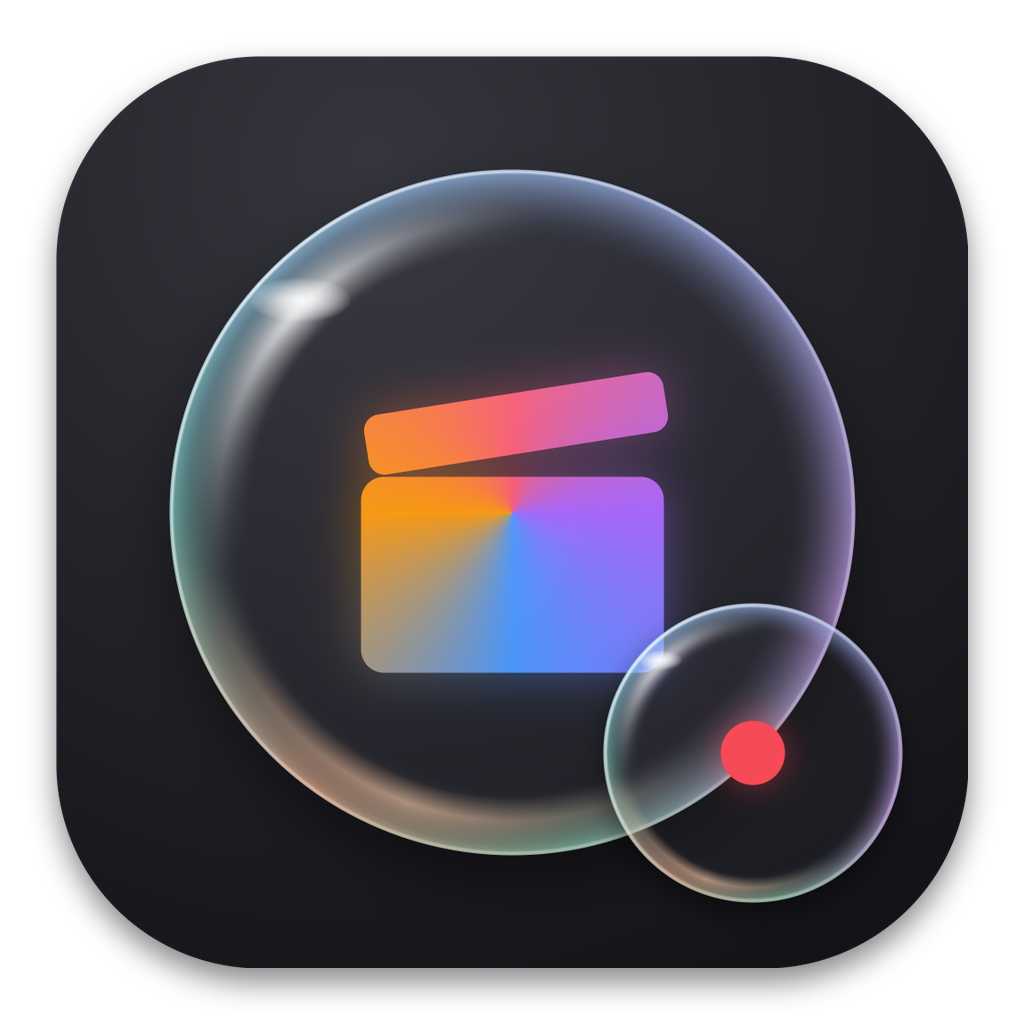
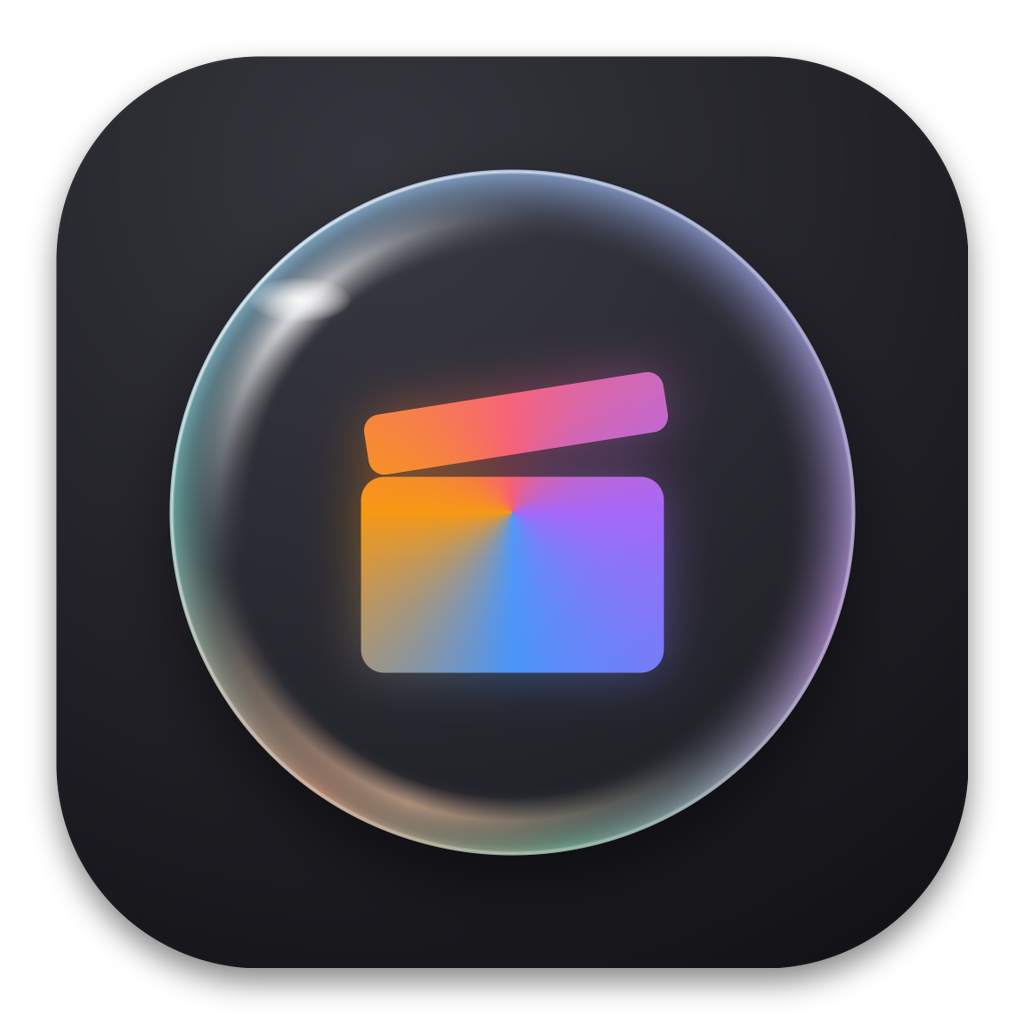
Кнопка «Обновить» список камер и микрофонов; иконка без маленького пузыря

Changed region(s): [[0.5625, 0.5625, 0.9062, 0.9062], [0.6875, 0.6875, 0.7812, 0.7812]]

diff --git a/Sources/main.swift b/Sources/main.swift
@@ -203,6 +203,7 @@ final class AppController: NSObject, NSApplicationDelegate,
     private var recordButton: RecordButton!
     private var timerLabel: NSTextField!
     private var folderButton: NSButton!
+    private var refreshButton: NSButton!
     private var audioCheckbox: NSButton!
     private var statusLabel: NSTextField!
     private var barView: NSView!
@@ -575,6 +576,31 @@ final class AppController: NSObject, NSApplicationDelegate,
         }
     }
 
+    /// Перечитывает список камер и микрофонов (подключил камеру после запуска — нажал «Обновить»).
+    @objc private func refreshDevices() {
+        guard !isRecording else { return }
+        let prevVideo = selectedVideoDevice()?.uniqueID
+        let prevAudio = selectedAudioDevice()?.uniqueID
+        let hadVideo = videoInput != nil
+
+        reloadDevices()
+
+        if let id = prevVideo, let i = videoDevices.firstIndex(where: { $0.uniqueID == id }) { devicePopup.selectItem(at: i) }
+        if let id = prevAudio, let i = audioDevices.firstIndex(where: { $0.uniqueID == id }) { audioPopup.selectItem(at: i) }
+
+        let sameVideo = selectedVideoDevice()?.uniqueID == prevVideo && hadVideo
+        if !sameVideo, !videoDevices.isEmpty,
+           AVCaptureDevice.authorizationStatus(for: .video) == .authorized {
+            deviceChanged()                       // новая/другая камера — перезапускаем превью
+        }
+        if selectedAudioDevice()?.uniqueID != prevAudio {
+            audioSourceChanged()
+        }
+        if !videoDevices.isEmpty && sameVideo {
+            setStatus("Обновлено: камер \(videoDevices.count), микрофонов \(audioDevices.count)")
+        }
+    }
+
     @objc private func audioSourceChanged() {
         session.beginConfiguration()
         applyAudioInput()
@@ -919,6 +945,7 @@ final class AppController: NSObject, NSApplicationDelegate,
         sidecarCheckbox.isEnabled = !locked && audioCheckbox.state == .on
         orientationControl.isEnabled = !locked
         folderButton.isEnabled = !locked
+        refreshButton.isEnabled = !locked
     }
 
     // MARK: - Таймер и индикатор звука
@@ -1249,6 +1276,18 @@ final class AppController: NSObject, NSApplicationDelegate,
         audioPopup = compactPopup(action: #selector(audioSourceChanged))
         barView.addSubview(audioPopup)
 
+        refreshButton = NSButton(title: "", target: self, action: #selector(refreshDevices))
+        refreshButton.bezelStyle = .rounded
+        refreshButton.controlSize = .small
+        if #available(macOS 11.0, *),
+           let img = NSImage(systemSymbolName: "arrow.clockwise", accessibilityDescription: "Обновить") {
+            refreshButton.image = img
+        } else {
+            refreshButton.title = "↻"
+        }
+        refreshButton.toolTip = "Обновить список камер и микрофонов"
+        barView.addSubview(refreshButton)
+
         orientationControl = NSSegmentedControl(labels: ["16:9", "9:16", "9:16 кроп"],
                                                 trackingMode: .selectOne,
                                                 target: self,
@@ -1474,11 +1513,15 @@ final class AppController: NSObject, NSApplicationDelegate,
         }
 
         // Ряд 1: две равные выпадашки, зеркальные отступы.
+        refreshButton.sizeToFit()
+        let refreshW = max(refreshButton.frame.width, 30)
+        refreshButton.frame.size.width = refreshW
         let popupW = ((w - pad * 2 - gap) / 2).rounded()
-        for p in [devicePopup!, audioPopup!] {
-            p.frame.size = NSSize(width: popupW, height: p.fittingSize.height)
-        }
+        let camW = popupW - refreshW - 4
+        devicePopup.frame.size = NSSize(width: camW, height: devicePopup.fittingSize.height)
+        audioPopup.frame.size = NSSize(width: popupW, height: audioPopup.fittingSize.height)
         center(devicePopup, x: pad, cy: row1CY)
+        center(refreshButton, x: pad + camW + 4, cy: row1CY)
         center(audioPopup, x: w - pad - popupW, cy: row1CY)
 
         // Ряд 2: формат · звук · +.wav · папка — по фактической ширине, группа по центру.

diff --git a/Tools/make_icon_bubble.py b/Tools/make_icon_bubble.py
@@ -96,13 +96,6 @@ def render(v):
         img = glyph(img, np.abs(d - 150) - 38, c0, c0)
         img = glyph(img, d - 52, c0, c0)
     img = bubble(img, c0, c0, 385)
-    if v != 3:
-        sx, sy, sr = 782, 782, 168
-        img = red_dot(img, sx, sy, 36)
-        img = bubble(img, sx, sy, sr)
-    else:
-        img = red_dot(img, 782, 782, 36)
-        img = bubble(img, 782, 782, 168)
     out = Image.fromarray(np.clip(img, 0, 255).astype(np.uint8)).convert("RGBA")
     # форма macOS: сжимаем в 0.89 и скругляем
     r = 0.2237 * S

diff --git a/README.md b/README.md
@@ -13,6 +13,7 @@
 - Сетка третей на превью — галочка «Сетка» справа от кнопки записи (светлые
   полупрозрачные линии; только на превью, в записанное видео не попадает;
   состояние запоминается)
+- Кнопка ↻ рядом со списком камер перечитывает камеры и микрофоны (подключил камеру после запуска, нажал и она появилась)
 - Переключатель формата **16:9 / 9:16 / 9:16 кроп**. «9:16» поворачивает кадр (камера на боку), «9:16 кроп» вырезает вертикальную полосу из центра горизонтального кадра без поворота (удобно для iPhone по Continuity, разрешение по ширине меньше)
 - Кнопка «Выбрать папку» (по умолчанию `~/Desktop/StreamRecord`, создаётся автоматически; выбранная папка запоминается между запусками)
 - Строка статуса с именем последнего сохранённого файла
